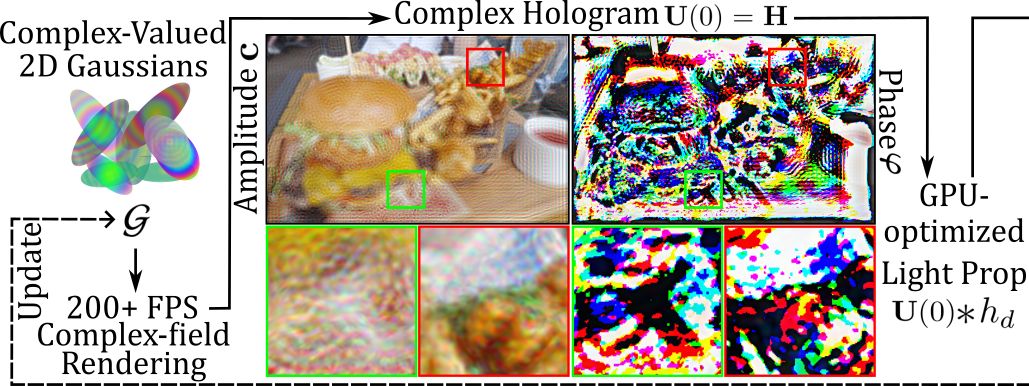
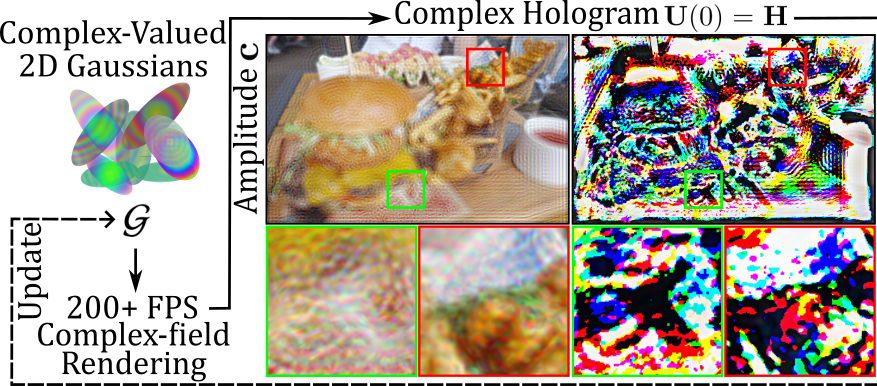
Merge pull request #41 from yichengZhan/master
Update project page

Pull request: Update project page

diff --git a/docs/publications/complex_valued_2d_gaussians.md b/docs/publications/complex_valued_2d_gaussians.md
@@ -10,8 +10,8 @@
       <td> <img src="../../people/kaan_aksit.png" width="120" alt=/> &nbsp;&nbsp;&nbsp;&nbsp;</td>
     </tr>
     <tr>
-      <td><p style="text-align:center;"><a href="https://albertgary.github.io/">Yicheng Zhan</a><sup>1</sup></p></td>
-      <td><p style="text-align:center;"><a href="https://gaoxiangjun.github.io/">Xiangjun Gao</a><sup>2</sup></p></td>
+      <td><p style="text-align:center;"><a href="https://albertgary.github.io/">Yicheng Zhan</a><sup>1,*</sup></p></td>
+      <td><p style="text-align:center;"><a href="https://gaoxiangjun.github.io/">Xiangjun Gao</a><sup>2,*</sup></p></td>
       <td><p style="text-align:center;"><a href="https://home.cse.ust.hk/~quan/">Long Quan</a><sup>2</sup></p></td>
       <td><p style="text-align:center;"><a href="https://kaanaksit.com">Kaan Akşit</a><sup>1</sup></p></td>
     </tr>
@@ -21,6 +21,7 @@
 <sup>1</sup>University College London,
 <sup>2</sup>Hong Kong University of Science and Technology (HKUST)
 </p>
+<p style="text-align:center;"><sup>*</sup>Equal Contribution</p>
 <p style="text-align:center;"><b>European Conference on Computer Vision (ECCV) 2026</b></p>
 
 ## Resources
@@ -113,7 +114,7 @@ The payoff starts with efficiency. Our CUDA kernel trims VRAM by 29–36% and ru
   ![Runtime](media/cv2dgs_runtime.png){ width="460" }
 </figure>
 
-### vs. Representation Methods
+### Our Method vs. Other Representation Methods
 Our method achieves the best performance. Implicit and autoencoder models collapse on hologram structure and prior Gaussian image models trail by a wide margin, while ours leads on metric with the fewest parameters.
 
 <div style="display:flex;justify-content:center;" markdown>
@@ -133,7 +134,7 @@ Our method achieves the best performance. Implicit and autoencoder models collap
   ![Representation comparison](media/cv2dgs_representation_compare.png){ width="820" }
 </figure>
 
-### vs. CGH Methods
+### Our Method vs. CGH Methods
 It also holds its own against dedicated CGH methods. Both phase-only formats reconstruct crisp focus across depth, and rendering drops from 6840 ms (GWS) to **2.13 ms**, roughly 3200× faster at comparable or better quality.
 
 <div style="display:flex;justify-content:center;" markdown>

diff --git a/docs/index.md b/docs/index.md
@@ -31,7 +31,7 @@
         <h5>
         <b>ECCV 2026</b>
         </h5>
-        <img height="300" width="600" src="publications/media/cv2dgs_pipeline.png" class="off-glb">
+        <img height="300" width="600" src="publications/media/cv2dgs_teaser.png" class="off-glb">
         </div>
       </div>
       <div class="slide">